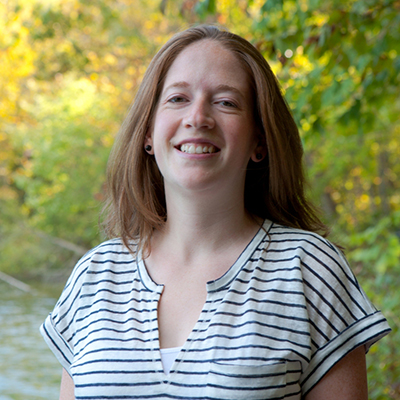
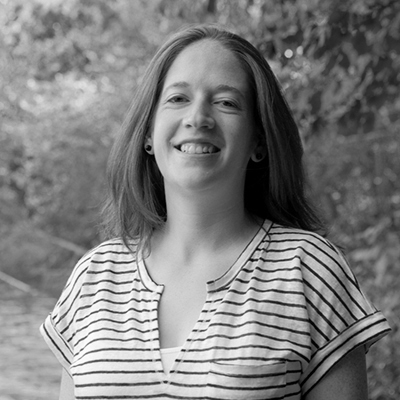
updates: final edits to Annalena's bio and link and changed Christy and Annalena bio photos to black and white photos

diff --git a/about.html b/about.html
@@ -208,10 +208,10 @@
                             <p><a href="http://akdavis.io" target="_blank">akdavis.io</a></p>
                             <ul class="list-inline text-center social">
                                 <li>
-                                    <a href="https://www.linkedin.com/in/annalena-davis-25907143/" target="_blank">
+                                    <a href="https://twitter.com/@annalenakdavis" target="_blank">
                                         <span class="fa-stack fa-1x">
                                             <i class="fa fa-circle fa-stack-2x"></i>
-                                            <i class="fa fa-linkedin fa-stack-1x fa-inverse"></i>
+                                            <i class="fa fa-twitter fa-stack-1x fa-inverse"></i>
                                         </span>
                                     </a>
                                 </li>
@@ -220,6 +220,14 @@
                                         <span class="fa-stack fa-1x">
                                             <i class="fa fa-circle fa-stack-2x"></i>
                                             <i class="fa fa-github fa-stack-1x fa-inverse"></i>
+                                        </span>
+                                    </a>
+                                </li>
+                                <li>
+                                    <a href="https://www.linkedin.com/in/annalena-davis-25907143/" target="_blank">
+                                        <span class="fa-stack fa-1x">
+                                            <i class="fa fa-circle fa-stack-2x"></i>
+                                            <i class="fa fa-linkedin fa-stack-1x fa-inverse"></i>
                                         </span>
                                     </a>
                                 </li>

diff --git a/index.html b/index.html
@@ -7,7 +7,6 @@
     <meta charset="utf-8">
     <meta http-equiv="X-UA-Compatible" content="IE=edge">
     <meta name="viewport" content="width=device-width, initial-scale=1">
-    <meta name="description" content="Our mission is to provide resources and opportunities for those interested in coding and design in the local community">
     <meta name="description" content="Want to learn how to code? Interested in web or software development? Women in Coding provides resources, opportunities, 
     and connections for anyone in the Syracuse area who is interested in coding and design. Join us at our next workshop."/>
 
